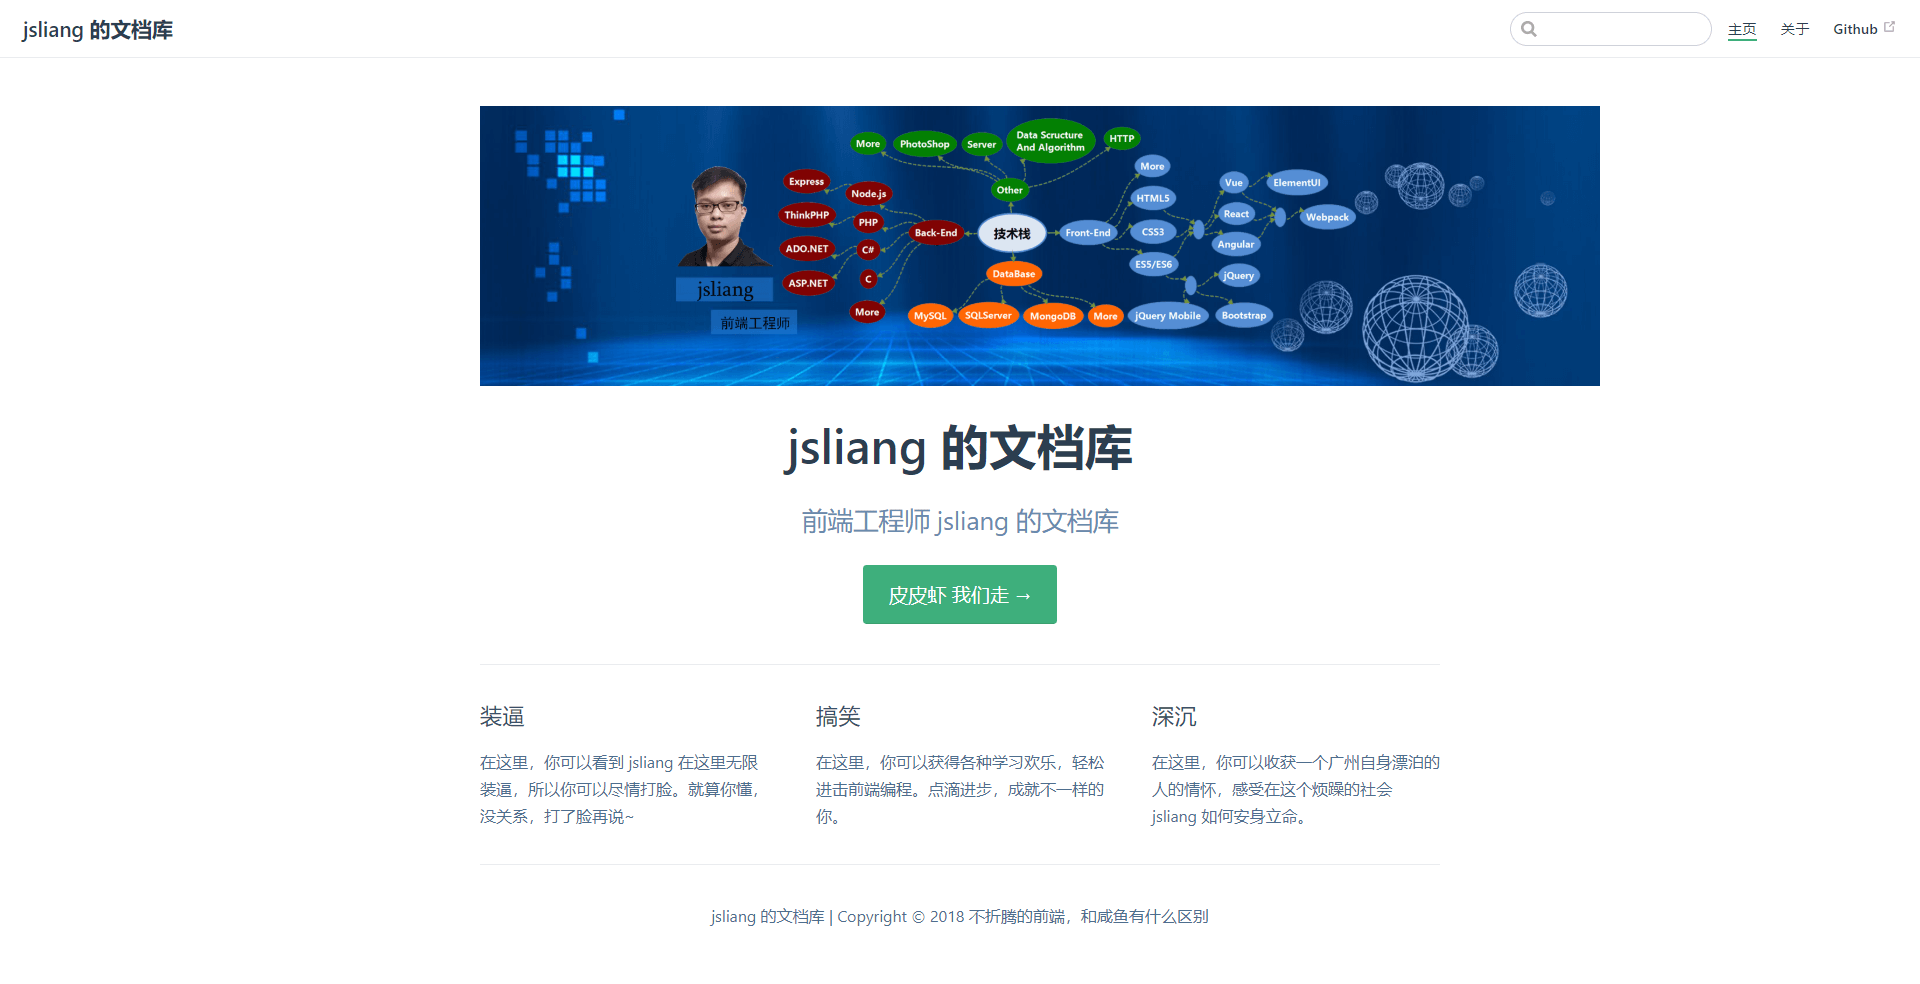
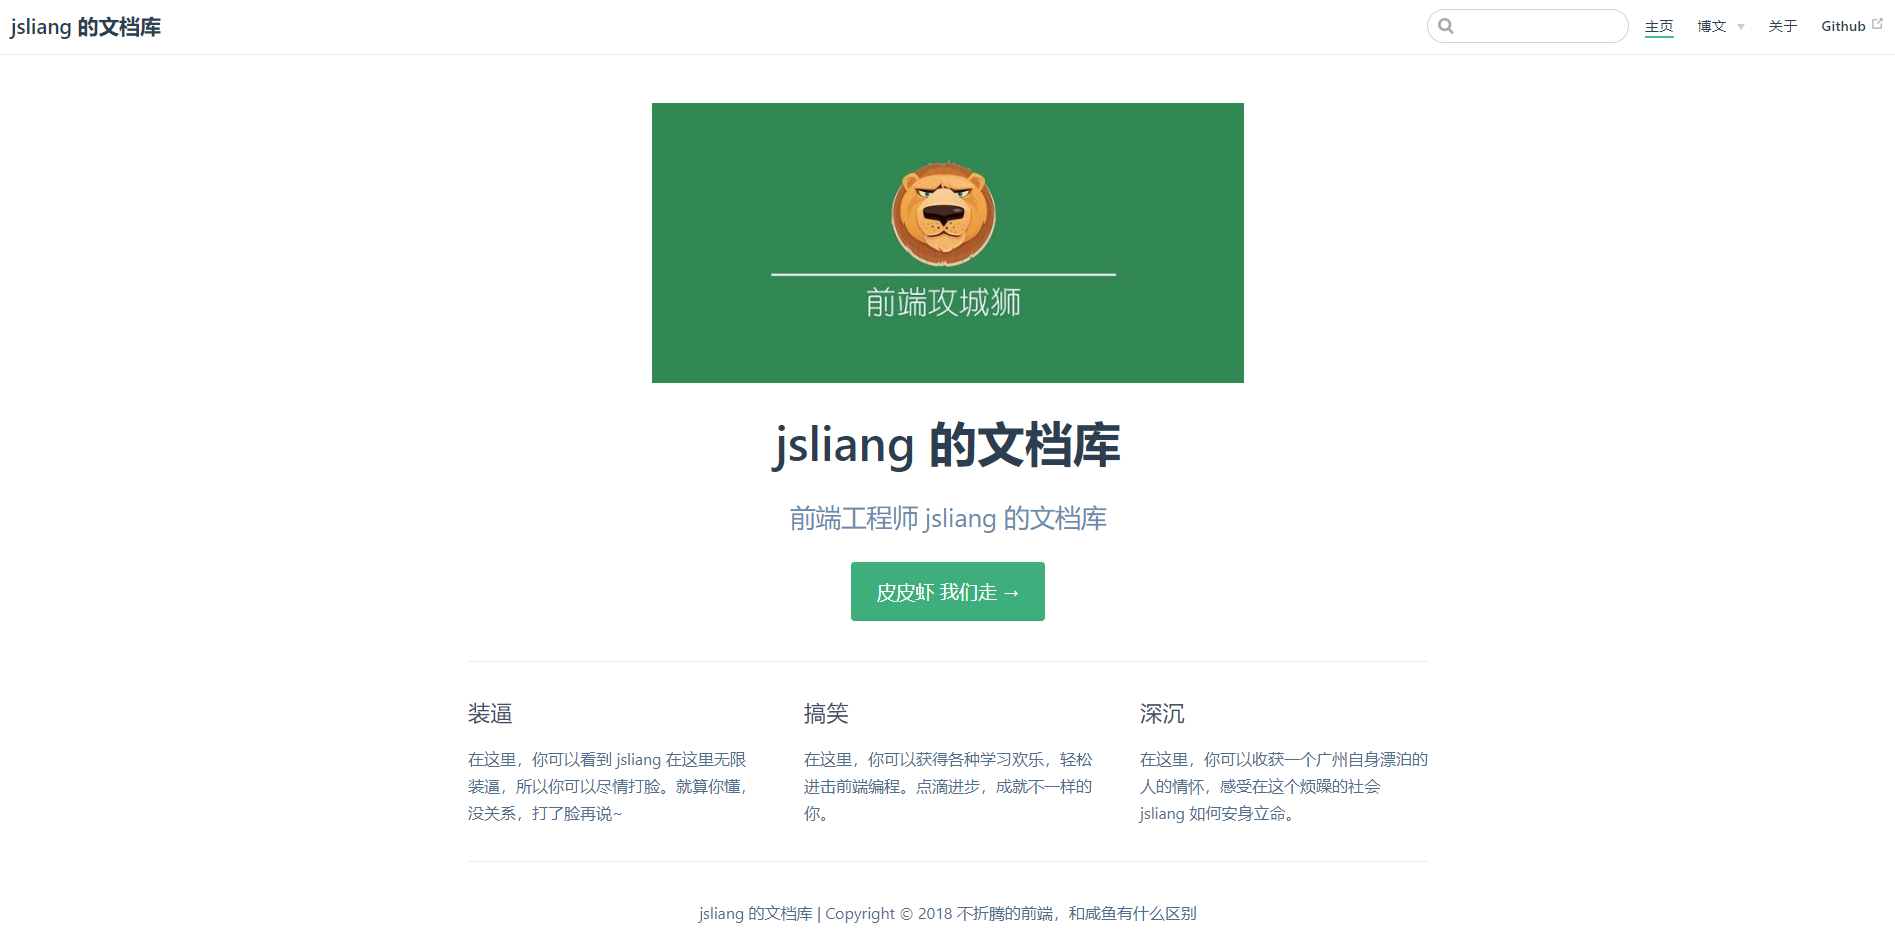
使用 GitHub Pages 和 VuePress 搭建网站

diff --git a/other-library/GithubPages/GithubPages.md b/other-library/GithubPages/GithubPages.md
@@ -41,8 +41,8 @@
 | &emsp;&emsp;[3.2.2 导航栏](#chapter-three-two-two) |
 | &emsp;&emsp;[3.2.3 侧边栏](#chapter-three-two-three) |
 | &emsp;&emsp;[3.2.4 默认首页](#chapter-three-two-four) |
-| &emsp;&emsp;[3.2.5 修改样式](#chapter-three-two-five) |
 | <a name="catalog-chapter-four" id="catalog-chapter-four"></a>[四 VuePress 进阶](#chapter-four) |
+| &emsp;[4.1 修改样式](#chapter-four-one) |
 
 <br>
 
@@ -393,6 +393,44 @@ module.exports = {
 ![图](../../public-repertory/img/other-GithubPages-15.png)
 
 &emsp;可以看出，我们已经成功配置了分页形式的侧边栏。
+
+<br>
+
+## <a name="chapter-three-two-four" id="chapter-three-two-four">3.2.4 默认首页</a>
+
+> [返回目录](#chapter-one)
+
+<br>
+
+&emsp;VuePress 为我们设置了一套默认的首页，我们直接拿来用，看看它长什么样子吧！
+
+&emsp;首先，我们找一张 banner.png 图，放到 `public/img/banner.png` 上。  
+&emsp;然后，我们修改下 `docs/README.md` 文件：
+
+> docs/README.md
+
+```
+---
+home: true
+heroImage: ./img/banner.png
+actionText: 皮皮虾 我们走 →
+actionLink: /index/
+features:
+- title: 装逼
+  details: 在这里，你可以看到 jsliang 在这里无限装逼，所以你可以尽情打脸。就算你懂，没关系，打了脸再说~
+- title: 搞笑
+  details: 在这里，你可以获得各种学习欢乐，轻松进击前端编程。点滴进步，成就不一样的你。
+- title: 深沉
+  details: 在这里，你可以收获一个广州自身漂泊的人的情怀，感受在这个烦躁的社会 jsliang 如何安身立命。
+footer: jsliang 的文档库 | Copyright © 2018 不折腾的前端，和咸鱼有什么区别
+---
+```
+
+&emsp;OK，由于我们重新修改了首页（即 docs/README.md），所以我们重新重启下，`Ctrl+C` -> `y` -> `npm run dev`，重新打开 `http://localhost:8080`：
+
+![图](../../public-repertory/img/other-GithubPages-1.png)
+
+&emsp;完美！这样，我们就完成了基础的配置了！！！
 
 <br>
 
